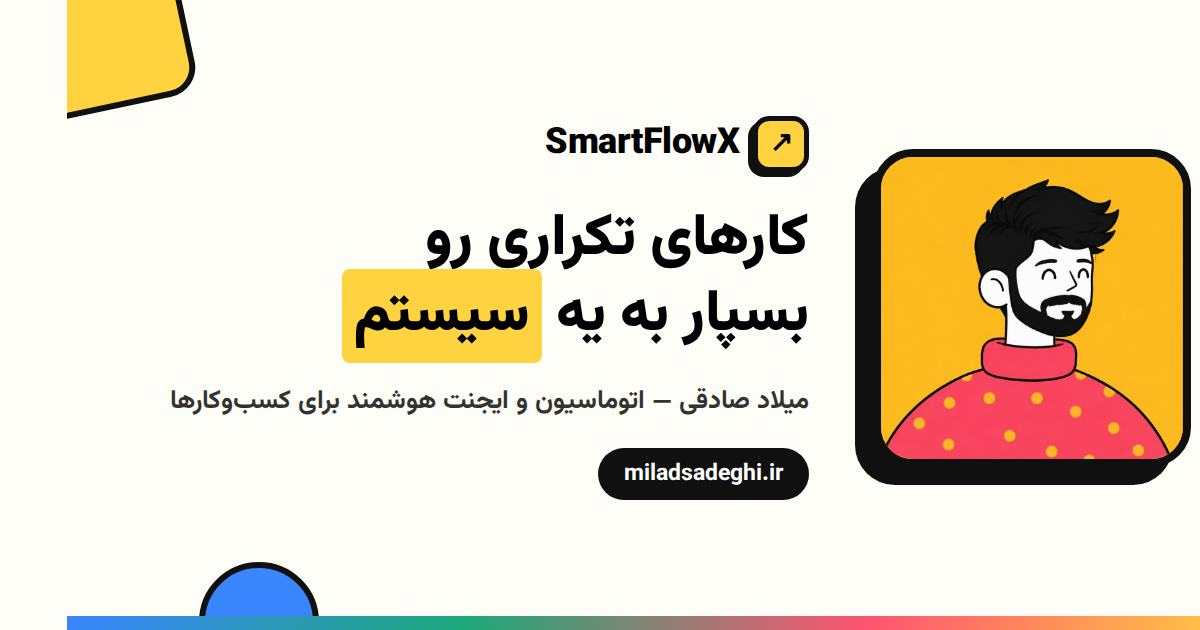
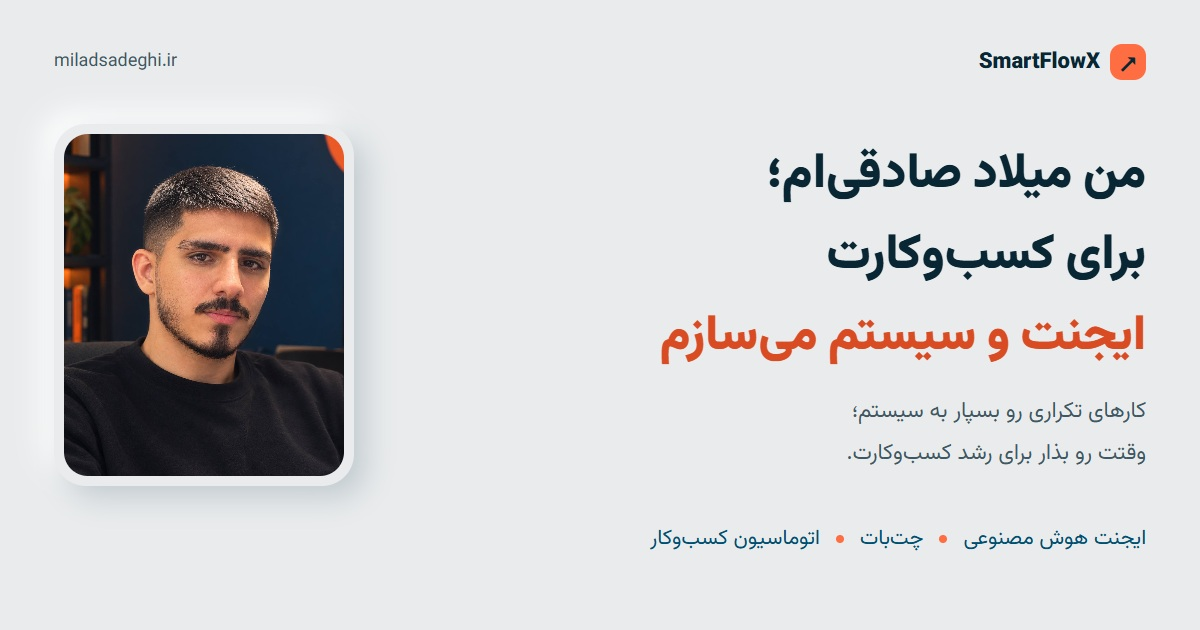
Refresh social preview with current SmartFlowX branding and portrait

diff --git a/index.html b/index.html
@@ -24,14 +24,15 @@
 <meta property="og:url" content="https://miladsadeghi.ir/">
 <meta property="og:title" content="میلاد صادقی | ساخت ایجنت و اتوماسیون کسبوکار — SmartFlowX">
 <meta property="og:description" content="من میلاد صادقیام؛ برای کسبوکارهای ایران چتبات، ایجنت هوش مصنوعی و اتوماسیون میسازم. نمونهکارهای واقعی رو ببین و از یه گفتوگوی رایگان شروع کن.">
-<meta property="og:image" content="https://miladsadeghi.ir/og.jpg">
+<meta property="og:image" content="https://miladsadeghi.ir/og-20261016.jpg">
+<meta property="og:image:type" content="image/jpeg">
 <meta property="og:image:width" content="1200">
 <meta property="og:image:height" content="630">
 <meta property="og:image:alt" content="SmartFlowX؛ ایجنت هوش مصنوعی و اتوماسیون کسبوکار">
 <meta name="twitter:card" content="summary_large_image">
 <meta name="twitter:title" content="میلاد صادقی | ساخت ایجنت و اتوماسیون کسبوکار — SmartFlowX">
 <meta name="twitter:description" content="من میلاد صادقیام؛ برای کسبوکارهای ایران چتبات، ایجنت هوش مصنوعی و اتوماسیون میسازم. نمونهکارهای واقعی رو ببین و از یه گفتوگوی رایگان شروع کن.">
-<meta name="twitter:image" content="https://miladsadeghi.ir/og.jpg">
+<meta name="twitter:image" content="https://miladsadeghi.ir/og-20261016.jpg">
 <meta name="twitter:image:alt" content="SmartFlowX؛ ایجنت هوش مصنوعی و اتوماسیون کسبوکار">
 <script type="application/ld+json">
 {

diff --git a/service-business-automation.html b/service-business-automation.html
@@ -24,14 +24,15 @@
 <meta property="og:url" content="https://miladsadeghi.ir/service-business-automation.html">
 <meta property="og:title" content="اتوماسیون کسبوکار و فرایندها | میلاد صادقی، SmartFlowX">
 <meta property="og:description" content="ثبت اطلاعات، محاسبه، بررسی و گزارشگیری کسبوکارت رو خودکار کنیم. مثالهای واقعی آدرینا و IP Manager، مراحل اجرا و روش حساب کردن ارزش کار رو ببین.">
-<meta property="og:image" content="https://miladsadeghi.ir/og.jpg">
+<meta property="og:image" content="https://miladsadeghi.ir/og-20261016.jpg">
+<meta property="og:image:type" content="image/jpeg">
 <meta property="og:image:width" content="1200">
 <meta property="og:image:height" content="630">
 <meta property="og:image:alt" content="SmartFlowX؛ ایجنت هوش مصنوعی و اتوماسیون کسبوکار">
 <meta name="twitter:card" content="summary_large_image">
 <meta name="twitter:title" content="اتوماسیون کسبوکار و فرایندها | میلاد صادقی، SmartFlowX">
 <meta name="twitter:description" content="ثبت اطلاعات، محاسبه، بررسی و گزارشگیری کسبوکارت رو خودکار کنیم. مثالهای واقعی آدرینا و IP Manager، مراحل اجرا و روش حساب کردن ارزش کار رو ببین.">
-<meta name="twitter:image" content="https://miladsadeghi.ir/og.jpg">
+<meta name="twitter:image" content="https://miladsadeghi.ir/og-20261016.jpg">
 <meta name="twitter:image:alt" content="SmartFlowX؛ ایجنت هوش مصنوعی و اتوماسیون کسبوکار">
 <script type="application/ld+json">
 {

diff --git a/blog.html b/blog.html
@@ -24,14 +24,15 @@
 <meta property="og:url" content="https://miladsadeghi.ir/blog.html">
 <meta property="og:title" content="راهنمای ایجنت و اتوماسیون کسبوکار | بلاگ SmartFlowX">
 <meta property="og:description" content="قبل از خرید ابزار یا ساخت ایجنت، دربارهی هزینه، بازگشت سرمایه، هوش مصنوعی آفلاین و کارهایی که بهتره خودکار نشن بخون؛ نوشتههای میلاد صادقی.">
-<meta property="og:image" content="https://miladsadeghi.ir/og.jpg">
+<meta property="og:image" content="https://miladsadeghi.ir/og-20261016.jpg">
+<meta property="og:image:type" content="image/jpeg">
 <meta property="og:image:width" content="1200">
 <meta property="og:image:height" content="630">
 <meta property="og:image:alt" content="SmartFlowX؛ ایجنت هوش مصنوعی و اتوماسیون کسبوکار">
 <meta name="twitter:card" content="summary_large_image">
 <meta name="twitter:title" content="راهنمای ایجنت و اتوماسیون کسبوکار | بلاگ SmartFlowX">
 <meta name="twitter:description" content="قبل از خرید ابزار یا ساخت ایجنت، دربارهی هزینه، بازگشت سرمایه، هوش مصنوعی آفلاین و کارهایی که بهتره خودکار نشن بخون؛ نوشتههای میلاد صادقی.">
-<meta name="twitter:image" content="https://miladsadeghi.ir/og.jpg">
+<meta name="twitter:image" content="https://miladsadeghi.ir/og-20261016.jpg">
 <meta name="twitter:image:alt" content="SmartFlowX؛ ایجنت هوش مصنوعی و اتوماسیون کسبوکار">
 <script type="application/ld+json">
 {

diff --git a/blog-before-you-buy.html b/blog-before-you-buy.html
@@ -24,14 +24,15 @@
 <meta property="og:url" content="https://miladsadeghi.ir/blog-before-you-buy.html">
 <meta property="og:title" content="هزینه و بازگشت سرمایهٔ اتوماسیون رو چطور حساب کنیم؟">
 <meta property="og:description" content="قبل از خرید ابزار هوش مصنوعی، زمان کار، هزینهی واقعی راهکار و نقطهی سربهسر رو حساب کن. با مثال عددی و برگهی سادهی تصمیمگیری.">
-<meta property="og:image" content="https://miladsadeghi.ir/og.jpg">
+<meta property="og:image" content="https://miladsadeghi.ir/og-20261016.jpg">
+<meta property="og:image:type" content="image/jpeg">
 <meta property="og:image:width" content="1200">
 <meta property="og:image:height" content="630">
 <meta property="og:image:alt" content="SmartFlowX؛ ایجنت هوش مصنوعی و اتوماسیون کسبوکار">
 <meta name="twitter:card" content="summary_large_image">
 <meta name="twitter:title" content="هزینه و بازگشت سرمایهٔ اتوماسیون رو چطور حساب کنیم؟">
 <meta name="twitter:description" content="قبل از خرید ابزار هوش مصنوعی، زمان کار، هزینهی واقعی راهکار و نقطهی سربهسر رو حساب کن. با مثال عددی و برگهی سادهی تصمیمگیری.">
-<meta name="twitter:image" content="https://miladsadeghi.ir/og.jpg">
+<meta name="twitter:image" content="https://miladsadeghi.ir/og-20261016.jpg">
 <meta name="twitter:image:alt" content="SmartFlowX؛ ایجنت هوش مصنوعی و اتوماسیون کسبوکار">
 <script type="application/ld+json">
 {

diff --git a/work-pabepa.html b/work-pabepa.html
@@ -24,14 +24,15 @@
 <meta property="og:url" content="https://miladsadeghi.ir/work-pabepa.html">
 <meta property="og:title" content="ربات عادتسازی و کالریشماری | پروژهٔ پابهپا">
 <meta property="og:description" content="پابهپا برای برنامهی هفتگی خودکار، پیگیری عادتها و رقابت دونفره؛ با پیام به همتیمی و تخمین کالری قابل اصلاح. صفحههای برنامه رو ببین.">
-<meta property="og:image" content="https://miladsadeghi.ir/og.jpg">
+<meta property="og:image" content="https://miladsadeghi.ir/og-20261016.jpg">
+<meta property="og:image:type" content="image/jpeg">
 <meta property="og:image:width" content="1200">
 <meta property="og:image:height" content="630">
 <meta property="og:image:alt" content="SmartFlowX؛ ایجنت هوش مصنوعی و اتوماسیون کسبوکار">
 <meta name="twitter:card" content="summary_large_image">
 <meta name="twitter:title" content="ربات عادتسازی و کالریشماری | پروژهٔ پابهپا">
 <meta name="twitter:description" content="پابهپا برای برنامهی هفتگی خودکار، پیگیری عادتها و رقابت دونفره؛ با پیام به همتیمی و تخمین کالری قابل اصلاح. صفحههای برنامه رو ببین.">
-<meta name="twitter:image" content="https://miladsadeghi.ir/og.jpg">
+<meta name="twitter:image" content="https://miladsadeghi.ir/og-20261016.jpg">
 <meta name="twitter:image:alt" content="SmartFlowX؛ ایجنت هوش مصنوعی و اتوماسیون کسبوکار">
 <script type="application/ld+json">
 {

diff --git a/work.html b/work.html
@@ -24,14 +24,15 @@
 <meta property="og:url" content="https://miladsadeghi.ir/work.html">
 <meta property="og:title" content="نمونهکارهای ایجنت، ربات و اتوماسیون | SmartFlowX">
 <meta property="og:description" content="نمونهکارهای واقعی میلاد صادقی: ربات آدرینا و طلای نظری، AgentBot، دستیار سایت و مدیریت آیپی. تصویر برنامهها و کاری که انجام میدن رو ببین.">
-<meta property="og:image" content="https://miladsadeghi.ir/og.jpg">
+<meta property="og:image" content="https://miladsadeghi.ir/og-20261016.jpg">
+<meta property="og:image:type" content="image/jpeg">
 <meta property="og:image:width" content="1200">
 <meta property="og:image:height" content="630">
 <meta property="og:image:alt" content="SmartFlowX؛ ایجنت هوش مصنوعی و اتوماسیون کسبوکار">
 <meta name="twitter:card" content="summary_large_image">
 <meta name="twitter:title" content="نمونهکارهای ایجنت، ربات و اتوماسیون | SmartFlowX">
 <meta name="twitter:description" content="نمونهکارهای واقعی میلاد صادقی: ربات آدرینا و طلای نظری، AgentBot، دستیار سایت و مدیریت آیپی. تصویر برنامهها و کاری که انجام میدن رو ببین.">
-<meta name="twitter:image" content="https://miladsadeghi.ir/og.jpg">
+<meta name="twitter:image" content="https://miladsadeghi.ir/og-20261016.jpg">
 <meta name="twitter:image:alt" content="SmartFlowX؛ ایجنت هوش مصنوعی و اتوماسیون کسبوکار">
 <script type="application/ld+json">
 {

diff --git a/blog-offline-ai.html b/blog-offline-ai.html
@@ -24,14 +24,15 @@
 <meta property="og:url" content="https://miladsadeghi.ir/blog-offline-ai.html">
 <meta property="og:title" content="هوش مصنوعی روی سرور خودت؛ کی لازمه؟ | SmartFlowX">
 <meta property="og:description" content="هوش مصنوعی آفلاین یا Private AI کی به کارت میاد؟ محدودیت داده و اینترنت، امنیت، هزینهی نگهداری و یه مثال از اجرای مدل داخل سازمان رو بررسی کن.">
-<meta property="og:image" content="https://miladsadeghi.ir/og.jpg">
+<meta property="og:image" content="https://miladsadeghi.ir/og-20261016.jpg">
+<meta property="og:image:type" content="image/jpeg">
 <meta property="og:image:width" content="1200">
 <meta property="og:image:height" content="630">
 <meta property="og:image:alt" content="SmartFlowX؛ ایجنت هوش مصنوعی و اتوماسیون کسبوکار">
 <meta name="twitter:card" content="summary_large_image">
 <meta name="twitter:title" content="هوش مصنوعی روی سرور خودت؛ کی لازمه؟ | SmartFlowX">
 <meta name="twitter:description" content="هوش مصنوعی آفلاین یا Private AI کی به کارت میاد؟ محدودیت داده و اینترنت، امنیت، هزینهی نگهداری و یه مثال از اجرای مدل داخل سازمان رو بررسی کن.">
-<meta name="twitter:image" content="https://miladsadeghi.ir/og.jpg">
+<meta name="twitter:image" content="https://miladsadeghi.ir/og-20261016.jpg">
 <meta name="twitter:image:alt" content="SmartFlowX؛ ایجنت هوش مصنوعی و اتوماسیون کسبوکار">
 <script type="application/ld+json">
 {

diff --git a/service-ai-chatbot.html b/service-ai-chatbot.html
@@ -24,14 +24,15 @@
 <meta property="og:url" content="https://miladsadeghi.ir/service-ai-chatbot.html">
 <meta property="og:title" content="ساخت چتبات هوش مصنوعی سایت | میلاد صادقی، SmartFlowX">
 <meta property="og:description" content="برای سایتت چتباتی بسازیم که با اطلاعات خدماتت جواب بده. نمونهی فعال، مراحل ساخت، عوامل هزینه و حدود دستیار هوش مصنوعی رو ببین.">
-<meta property="og:image" content="https://miladsadeghi.ir/og.jpg">
+<meta property="og:image" content="https://miladsadeghi.ir/og-20261016.jpg">
+<meta property="og:image:type" content="image/jpeg">
 <meta property="og:image:width" content="1200">
 <meta property="og:image:height" content="630">
 <meta property="og:image:alt" content="SmartFlowX؛ ایجنت هوش مصنوعی و اتوماسیون کسبوکار">
 <meta name="twitter:card" content="summary_large_image">
 <meta name="twitter:title" content="ساخت چتبات هوش مصنوعی سایت | میلاد صادقی، SmartFlowX">
 <meta name="twitter:description" content="برای سایتت چتباتی بسازیم که با اطلاعات خدماتت جواب بده. نمونهی فعال، مراحل ساخت، عوامل هزینه و حدود دستیار هوش مصنوعی رو ببین.">
-<meta name="twitter:image" content="https://miladsadeghi.ir/og.jpg">
+<meta name="twitter:image" content="https://miladsadeghi.ir/og-20261016.jpg">
 <meta name="twitter:image:alt" content="SmartFlowX؛ ایجنت هوش مصنوعی و اتوماسیون کسبوکار">
 <script type="application/ld+json">
 {

diff --git a/work-divar.html b/work-divar.html
@@ -24,14 +24,15 @@
 <meta property="og:url" content="https://miladsadeghi.ir/work-divar.html">
 <meta property="og:title" content="اتوماسیون جستجو و بررسی آگهی دیوار | پروژهٔ گوشینو">
 <meta property="og:description" content="پروژهی گوشینو برای جستجوی آیفون کارکرده در تهران: بررسی عنوان و متن آگهی، پالایش طبق قواعد، جلوگیری از تکرار و گزارش وضعیت کار.">
-<meta property="og:image" content="https://miladsadeghi.ir/og.jpg">
+<meta property="og:image" content="https://miladsadeghi.ir/og-20261016.jpg">
+<meta property="og:image:type" content="image/jpeg">
 <meta property="og:image:width" content="1200">
 <meta property="og:image:height" content="630">
 <meta property="og:image:alt" content="SmartFlowX؛ ایجنت هوش مصنوعی و اتوماسیون کسبوکار">
 <meta name="twitter:card" content="summary_large_image">
 <meta name="twitter:title" content="اتوماسیون جستجو و بررسی آگهی دیوار | پروژهٔ گوشینو">
 <meta name="twitter:description" content="پروژهی گوشینو برای جستجوی آیفون کارکرده در تهران: بررسی عنوان و متن آگهی، پالایش طبق قواعد، جلوگیری از تکرار و گزارش وضعیت کار.">
-<meta name="twitter:image" content="https://miladsadeghi.ir/og.jpg">
+<meta name="twitter:image" content="https://miladsadeghi.ir/og-20261016.jpg">
 <meta name="twitter:image:alt" content="SmartFlowX؛ ایجنت هوش مصنوعی و اتوماسیون کسبوکار">
 <script type="application/ld+json">
 {

diff --git a/work-chatbot.html b/work-chatbot.html
@@ -24,14 +24,15 @@
 <meta property="og:url" content="https://miladsadeghi.ir/work-chatbot.html">
 <meta property="og:title" content="نمونه چتبات هوش مصنوعی سایت | دستیار SmartFlowX">
 <meta property="og:description" content="دستیار SmartFlowX با اطلاعات خدمات سایت جواب میده و گفتگو رو ادامه میده. نمونهی فعال رو امتحان کن و گفتگوهای واقعی و حدود کارش رو ببین.">
-<meta property="og:image" content="https://miladsadeghi.ir/og.jpg">
+<meta property="og:image" content="https://miladsadeghi.ir/og-20261016.jpg">
+<meta property="og:image:type" content="image/jpeg">
 <meta property="og:image:width" content="1200">
 <meta property="og:image:height" content="630">
 <meta property="og:image:alt" content="SmartFlowX؛ ایجنت هوش مصنوعی و اتوماسیون کسبوکار">
 <meta name="twitter:card" content="summary_large_image">
 <meta name="twitter:title" content="نمونه چتبات هوش مصنوعی سایت | دستیار SmartFlowX">
 <meta name="twitter:description" content="دستیار SmartFlowX با اطلاعات خدمات سایت جواب میده و گفتگو رو ادامه میده. نمونهی فعال رو امتحان کن و گفتگوهای واقعی و حدود کارش رو ببین.">
-<meta name="twitter:image" content="https://miladsadeghi.ir/og.jpg">
+<meta name="twitter:image" content="https://miladsadeghi.ir/og-20261016.jpg">
 <meta name="twitter:image:alt" content="SmartFlowX؛ ایجنت هوش مصنوعی و اتوماسیون کسبوکار">
 <script type="application/ld+json">
 {

diff --git a/work-nazari.html b/work-nazari.html
@@ -24,14 +24,15 @@
 <meta property="og:url" content="https://miladsadeghi.ir/work-nazari.html">
 <meta property="og:title" content="ربات تلگرام طلا و قیمت لحظهای | پروژهٔ طلای نظری">
 <meta property="og:description" content="ربات طلای نظری: قیمت طلا و ارز، کاتالوگ با عکس و بودجه، محاسبهی اجرت و هشدار قیمت. تصاویر واقعی و روش کار ربات و کانال رو ببین.">
-<meta property="og:image" content="https://miladsadeghi.ir/og.jpg">
+<meta property="og:image" content="https://miladsadeghi.ir/og-20261016.jpg">
+<meta property="og:image:type" content="image/jpeg">
 <meta property="og:image:width" content="1200">
 <meta property="og:image:height" content="630">
 <meta property="og:image:alt" content="SmartFlowX؛ ایجنت هوش مصنوعی و اتوماسیون کسبوکار">
 <meta name="twitter:card" content="summary_large_image">
 <meta name="twitter:title" content="ربات تلگرام طلا و قیمت لحظهای | پروژهٔ طلای نظری">
 <meta name="twitter:description" content="ربات طلای نظری: قیمت طلا و ارز، کاتالوگ با عکس و بودجه، محاسبهی اجرت و هشدار قیمت. تصاویر واقعی و روش کار ربات و کانال رو ببین.">
-<meta name="twitter:image" content="https://miladsadeghi.ir/og.jpg">
+<meta name="twitter:image" content="https://miladsadeghi.ir/og-20261016.jpg">
 <meta name="twitter:image:alt" content="SmartFlowX؛ ایجنت هوش مصنوعی و اتوماسیون کسبوکار">
 <script type="application/ld+json">
 {

diff --git a/about.html b/about.html
@@ -24,14 +24,15 @@
 <meta property="og:url" content="https://miladsadeghi.ir/about.html">
 <meta property="og:title" content="میلاد صادقی کیه؟ | بنیانگذار SmartFlowX">
 <meta property="og:description" content="من میلاد صادقیام، بنیانگذار SmartFlowX. دربارهی تجربه، مهارتها و روشم در ساخت ایجنت هوش مصنوعی، چتبات و اتوماسیون برای کسبوکارها بخون.">
-<meta property="og:image" content="https://miladsadeghi.ir/og.jpg">
+<meta property="og:image" content="https://miladsadeghi.ir/og-20261016.jpg">
+<meta property="og:image:type" content="image/jpeg">
 <meta property="og:image:width" content="1200">
 <meta property="og:image:height" content="630">
 <meta property="og:image:alt" content="SmartFlowX؛ ایجنت هوش مصنوعی و اتوماسیون کسبوکار">
 <meta name="twitter:card" content="summary_large_image">
 <meta name="twitter:title" content="میلاد صادقی کیه؟ | بنیانگذار SmartFlowX">
 <meta name="twitter:description" content="من میلاد صادقیام، بنیانگذار SmartFlowX. دربارهی تجربه، مهارتها و روشم در ساخت ایجنت هوش مصنوعی، چتبات و اتوماسیون برای کسبوکارها بخون.">
-<meta name="twitter:image" content="https://miladsadeghi.ir/og.jpg">
+<meta name="twitter:image" content="https://miladsadeghi.ir/og-20261016.jpg">
 <meta name="twitter:image:alt" content="SmartFlowX؛ ایجنت هوش مصنوعی و اتوماسیون کسبوکار">
 <script type="application/ld+json">
 {
